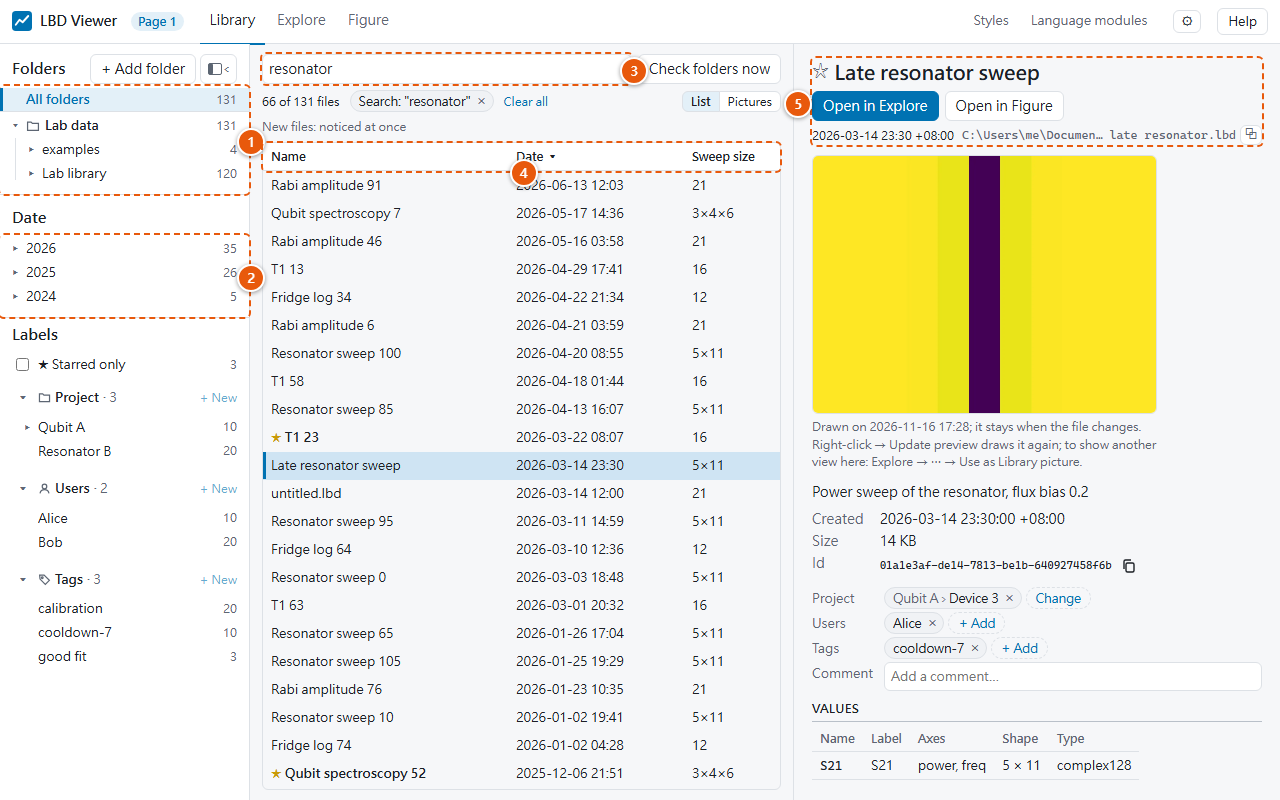
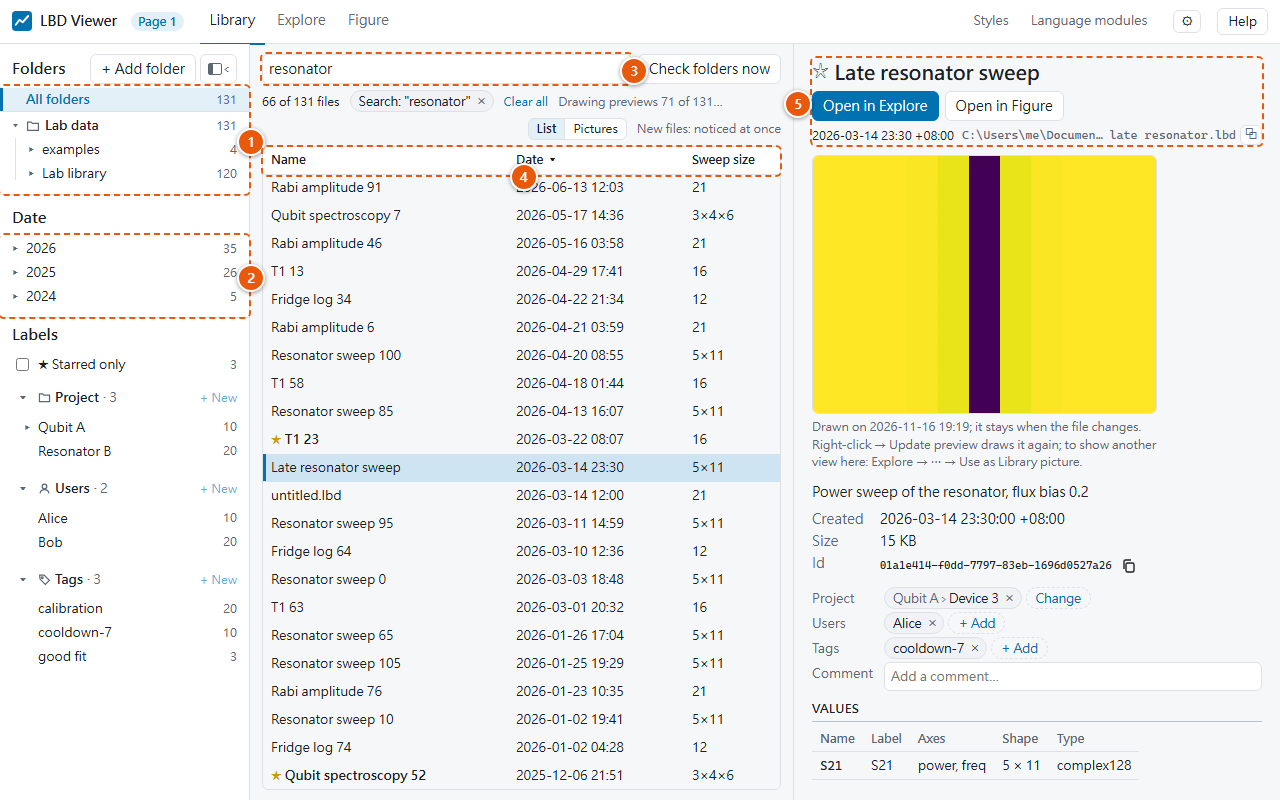
How LBD works: three parts (Library, Explore, Figure), in the README and the docs
A new overview diagram (three-parts.svg): your programs write .lbd files; the Library manages
them, Explore looks into them, Figure makes the figures. Each part has its own section with a
screenshot without numbers (make_screenshots.py clean()); the data + style idea is now the Figure
part's. The README's feature list keeps only what the three parts don't say.

diff --git a/scripts/make_screenshots.py b/scripts/make_screenshots.py
@@ -218,6 +218,12 @@ def mark(page: Page, marks: List[Mark]) -> None:
     page.evaluate(MARK_JS, [list(m) for m in marks])
 
 
+def clean(page: Page, name: str) -> None:
+    """The same view without numbers, for the README and *How LBD works* (one per page)."""
+    mark(page, [])
+    save(page, VIEWER_IMG / name)
+
+
 def save(page: Page, path: Path, clip: Dict[str, float] = None) -> None:
     path.parent.mkdir(parents=True, exist_ok=True)
     page.screenshot(path=str(path), clip=clip)
@@ -255,6 +261,7 @@ def shot(fn: Callable) -> Callable:
 def overview(page: Page, url: str, ctx) -> None:
     fresh(page, url)
     open_file(page, "sweep.lbd")
+    clean(page, "page-figure.png")
     mark(page, [
         (1, ".pages", 0, "b"),
         (2, ".page-badge", 0, "b"),
@@ -283,6 +290,7 @@ def explore(page: Page, url: str, ctx) -> None:
     page.locator("main:not([hidden]) .explore-pick").wait_for()
     page.keyboard.press("c")                    # without the cuts (shown in reading.png): all fits
     page.wait_for_timeout(1500)
+    clean(page, "page-explore.png")
     mark(page, [                                # the numbers of the list in explore.md
         (1, ".pages", 0, "b"),
         (2, "main:not([hidden]) .tabs .tab", 0, "b"),
@@ -493,6 +501,7 @@ def library(page: Page, url: str, ctx) -> None:
     page.locator(".library-detail .library-preview img").wait_for(timeout=60_000)   # drawn by the server
     page.mouse.move(5, 400)
     page.wait_for_timeout(800)
+    clean(page, "page-library.png")
     mark(page, [                                # the numbers of the list in library.md
         (1, ".library-tree[aria-label='Folders']", 0, "r"),
         (2, ".library-tree[aria-label='Dates']", 0, "r"),

diff --git a/tests/scripts/test_screenshots.py b/tests/scripts/test_screenshots.py
@@ -15,7 +15,9 @@ FOLDERS = {"VIEWER_IMG": REPO / "docs" / "viewer" / "img", "QUICKSTART_IMG": REP
 
 def shots():
     """The images the script makes: their paths."""
-    found = re.findall(r'save\(page, (VIEWER_IMG|QUICKSTART_IMG) / "([^"]+)"', SCRIPT.read_text(encoding="utf-8"))
+    text = SCRIPT.read_text(encoding="utf-8")
+    found = re.findall(r'save\(page, (VIEWER_IMG|QUICKSTART_IMG) / "([^"]+)"', text)
+    found += [("VIEWER_IMG", name) for name in re.findall(r'clean\(page, "([^"]+)"\)', text)]   # without numbers
     return {FOLDERS[folder] / name for folder, name in found}
 
 

diff --git a/README.md b/README.md
@@ -8,20 +8,9 @@
 the Library, explore it, and make figures that always match.**
 
 Lab data comes from many programs, written in many programming languages: measurement
-scripts, notebooks, simulations, instrument software. LBD gives all of it one home:
-
-- Every program saves its data as an **`.lbd` file** (plain HDF5 inside), using the small LBD
-  module for its programming language, also while it is still measuring. The same file reads
-  back identically in every [supported language](#2-install-the-module-for-your-language).
-- **LBD Viewer** runs on your computer and shows your data in the browser, on three pages:
-  - **Library**: every data file under your folders in one list. Search, filter by date, project,
-    user and tag, star and comment, see a preview of each file, and see measurements as they are
-    being written.
-  - **Explore**: look into a file. Curves, maps, scatter plots, histograms and more; cursors that
-    read the stored values, cuts through maps, peaks, operations and equations, several panels side
-    by side, and a file that grows while it is measured.
-  - **Figure**: the figure for your paper. One style system, so a figure looks the same whichever
-    program made the data, and what you see is exactly what exports to PDF.
+scripts, notebooks, simulations, instrument software. Over months it piles up in folders, on
+several computers, each file in its own shape. Finding last week's measurement, looking into it,
+and making a figure that matches last year's all take work. LBD gives all of it one home.
 
 Coming from Labber? The Library and Explore do what its Log Browser and Log Viewer did.
 
@@ -29,51 +18,56 @@ Coming from Labber? The Library and Explore do what its Log Browser and Log View
 [quick start](https://patrick-csliu.github.io/lbd/getting-started/quickstart.html), examples
 with their figures, and every feature of the viewer.
 
-![The Library: every data file under your folders, with filters, labels and a preview](docs/viewer/img/library.png)
-
-![Explore: a map with a cursor reading the stored values](docs/viewer/img/explore.png)
-
 ## How it works
+
+![Your programs write .lbd files; the Library manages them, Explore looks into them, Figure makes the figures](docs/assets/three-parts.svg)
+
+Your programs save their data as **`.lbd` files** (plain HDF5 inside), with the small LBD module
+for their programming language, also while they are still measuring. The same file reads back
+identically in every [supported language](#2-install-the-module-for-your-language).
+
+**LBD Viewer** runs on your computer and shows your data in the browser. It has three parts:
+
+### 1. Library: manage your data
+
+Every data file under your folders, in one list. Search names, values and metadata; filter by
+folder, date, project, users and tags; star and comment. Each file shows a preview; a measurement
+still being written shows how far it is. Labels are kept with the folder and written into the
+file itself, so they travel with it, also to other computers. Copies of one measurement, copies
+that differ and files that went missing are shown as such. [More](docs/viewer/library.md)
+
+![The Library: every data file under your folders, with filters, labels and a preview](docs/viewer/img/page-library.png)
+
+### 2. Explore: look into your data
+
+Open a file and look into it interactively: curves, maps, scatter (also the complex I/Q plane),
+histograms, matrices and bars. Cursors snap to the stored values; take cuts through a map, find
+the maximum, minimum or a peak; apply operations (mean, normalize, d/dx, FFT, smoothing,
+background, rotation, …) and equations; put several panels side by side, following each other's
+zoom and cursors. A file being measured grows on screen. [More](docs/viewer/explore.md)
+
+![Explore: a map with a cursor reading the stored values](docs/viewer/img/page-explore.png)
+
+### 3. Figure: figures that always match
+
+For a paper or a talk, LBD keeps **what you measured** and **how figures look** apart, and puts
+them together only when it draws:
 
 ![A data file plus a style makes a figure; the same style with any data file makes figures that match](docs/assets/concept.svg)
 
-LBD keeps **what you measured** and **how figures look** apart, and puts them together only
-when it draws. This is the idea behind the Figure page and `lbd.plot`:
-
 - **Data file (`.lbd`):** the axes you swept, the values you measured, units, labels and
-  metadata. Optionally a saved *view*: what to plot by default. Written by your own programs, in
-  any supported language.
+  metadata. Optionally a saved *view*: what to plot by default.
 - **Style:** size, fonts, line widths, ticks, colours, colour maps, and fixed scales per
   quantity. A named *preset* on your computer, or a `.lbd.json` style file to share.
-- **Figure:** LBD Viewer and Python's `lbd.plot` draw the data file with the style, with the
+- **Figure:** the Figure page and Python's `lbd.plot` draw the data file with the style, with the
   same code, on screen and in PDF, SVG or PNG at the real size.
 
 Keep one style, and every figure matches: across datasets, programs and years. Change the style
-once, and every figure follows; the data is never touched. More in
-[How LBD works](docs/getting-started/how-it-works.md).
+once, and every figure follows; the data is never touched. [More](docs/getting-started/how-it-works.md)
 
-## Features
+## More features
 
-- **Library** (find your data):
-  - every data file under your folders as one list or as pictures, with a preview of each;
-  - search names, descriptions, values, units and metadata; filter by folder, date, project,
-    users, tags and star;
-  - labels (star, project, users, tags, comment), kept in the folder and written into the data
-    file too, so they travel with it;
-  - new files appear by themselves; copies of one measurement, copies that differ, and files that
-    went missing are shown as such;
-  - a measurement being written shows its progress, and one that stopped can be recovered.
-- **Explore** (look into a file):
-  - plot types: curves, maps, scatter (also the complex I/Q plane), matrix, bars, 3D bars and
-    histogram; complex data as magnitude, dB, phase, real or imaginary;
-  - sliders (or typed values) for the other axes; maps of sweeps whose points differ per step;
-  - cursors that snap to the stored data, with max, min and peak; cuts through maps, saved as CSV
-    or as a new `.lbd` file;
-  - operations (mean, normalize, d/dx, FFT, smoothing, background, rotation and more) and
-    equations on x, y and z, with units;
-  - several panels side by side, following each other's zoom and cursors;
-  - a file being measured grows on screen.
-- **Figure and styles** (make the figure):
+- **Styles and figures:**
   - styles shaped like matplotlib (Figure → Axes → frame, axis, ticks, legend, …): presets shared
     with Python, style files (`*.lbd.json`) to keep with a paper, `.mplstyle` export;
   - fixed colour scales per quantity, for fair comparisons;

diff --git a/docs/getting-started/how-it-works.md b/docs/getting-started/how-it-works.md
@@ -1,32 +1,72 @@
 # How LBD works
 
-## Find, explore, then make figures
+![Your programs write .lbd files; the Library manages them, Explore looks into them, Figure makes the figures](../assets/three-parts.svg)
 
-Your programs save their data as `.lbd` files, written with the LBD module for their
-programming language, also while they are still measuring. LBD Viewer runs on your computer and
-shows them in the browser, on three pages:
+Lab data comes from many programs, written in many programming languages: measurement scripts,
+notebooks, simulations, instrument software. Over months it piles up in folders, on several
+computers, each file in its own shape. Finding last week's measurement, looking into it, and
+making a figure that matches last year's all take work. LBD gives all of it one home.
 
-1. **Library: find it.** Every data file under your folders, in one list. Search, filter by date,
-   project, users and tags, star and comment; a preview shows what is in each file, and a
-   measurement still being written shows how far it is. Labels are kept in the folder and in the
-   file itself. See [Library](../viewer/library.md).
-2. **Explore: look into it.** Plot any value as curves, a map, scatter, a histogram and more;
-   read values with cursors, take cuts, find peaks, apply operations and equations, and put
-   several panels side by side. See [Explore](../viewer/explore.md).
-3. **Figure: show it.** Make the figure for a paper, in a style shared by every figure. The rest
-   of this page is about the idea behind it. See [Figure](../viewer/plotting.md).
+## Your data: one file format
+
+Your programs save their data as `.lbd` files, written with the small LBD module for their
+programming language ([supported languages](install.md#language-modules)), also while they are
+still measuring ([Writing while measuring](writing-while-measuring.md)). A file holds the axes
+you swept, the values you measured, units, labels and metadata; the same file reads back the same
+in every language. Inside it is plain HDF5. [Concepts](concepts.md) has the details.
+
+LBD Viewer runs on your computer and shows your data in the browser. It has three parts.
+
+## 1. Library: manage your data
+
+Every data file under your folders, in one list:
+
+- **find it:** search names, values and metadata; filter by folder, date, project, users and
+  tags; sort by any column, or see the files as pictures;
+- **label it:** a star, a project, users, tags and a comment. They are kept with the folder and
+  written into the file itself, so they travel with it, also to other computers;
+- **keep track:** new files appear by themselves; each file shows a preview; a measurement still
+  being written shows how far it is; copies of one measurement, copies that differ and files that
+  went missing are shown as such.
+
+![The Library: every data file under your folders, with filters, labels and a preview](../viewer/img/page-library.png)
+
+More in [Library](../viewer/library.md).
+
+## 2. Explore: look into your data
+
+Open a file and look into it interactively:
+
+- **plot it:** curves, maps, scatter (also the complex I/Q plane), histograms, matrices and bars;
+  sliders for the other axes;
+- **read it:** cursors that snap to the stored values, cuts through a map, the maximum, minimum or
+  a peak; save a cut as CSV or as a new `.lbd` file;
+- **work on it:** operations (mean, normalize, d/dx, FFT, smoothing, background, rotation, …)
+  and equations, without changing the file;
+- **compare:** several panels side by side, following each other's zoom and cursors. A file being
+  measured grows on screen.
+
+![Explore: a map with a cursor reading the stored values](../viewer/img/page-explore.png)
+
+More in [Explore](../viewer/explore.md).
+
+## 3. Figure: figures that always match
+
+When a plot is right, **Open in Figure** makes the figure for a paper or a talk, exported at its
+real size. What makes LBD's figures match is the idea below.
+
+![The Figure page: a heat map in the shared style, ready to export](../viewer/img/page-figure.png)
 
 ![A data file plus a style makes a figure; the same style with any data file makes figures that match](../assets/concept.svg)
 
-## The problem with figures
+### The problem with figures
 
-Lab data comes from many programs, written in many programming languages: measurement
-scripts, notebooks, simulations, instrument software. Each one plots in its own way, with its
+Each program plots in its own way, with its
 own sizes, fonts, colours and colour ranges. So figures from two programs, or from last year and
 this year, never quite match. Comparing them means plotting everything again by hand, and a thesis or paper with dozens
 of figures takes a lot of fiddling to look consistent.
 
-## The idea: keep the data and the look apart
+### The idea: keep the data and the look apart
 
 LBD keeps two things separate, and puts them together only when a figure is drawn.
 
@@ -53,7 +93,7 @@ LBD keeps two things separate, and puts them together only when a figure is draw
 with the style, using the same matplotlib code. So the same file and the same style give the
 same figure, on screen and exported to PDF, SVG or PNG at its real size.
 
-## Why it's useful
+### Why it's useful
 
 - **Figures that match.** Every data file drawn with the same style looks the same. A sweep
   saved by a MATLAB script last year sits next to one from a Python notebook today, ready to
@@ -71,7 +111,7 @@ same figure, on screen and exported to PDF, SVG or PNG at its real size.
   settings to the file.
 - **Easy to share.** Send the data files and the style file; the receiver sees the same figures.
 
-## How the pieces combine
+### How the pieces combine
 
 When a figure is drawn, the settings are applied in this order; a later one wins:
 

diff --git a/docs/index.md b/docs/index.md
@@ -18,10 +18,8 @@ files, also while they are being measured. LBD Viewer shows them on three pages:
 - **Figure**: figures that look the same for every dataset, every program and every year: the same
   size, fonts, line widths, colours and colour scales.
 
-![A data file plus a style makes a figure; the same style with any data file makes figures that match](assets/concept.svg)
+![Your programs write .lbd files; the Library manages them, Explore looks into them, Figure makes the figures](assets/three-parts.svg)
 
-The idea behind the figures: a **data file** holds what you measured, a **style** holds how
-figures look, and LBD puts them together when it draws. Keep one style, and every figure matches.
 [How LBD works :octicons-arrow-right-24:](getting-started/how-it-works.md)
 
 <div class="grid cards" markdown>
